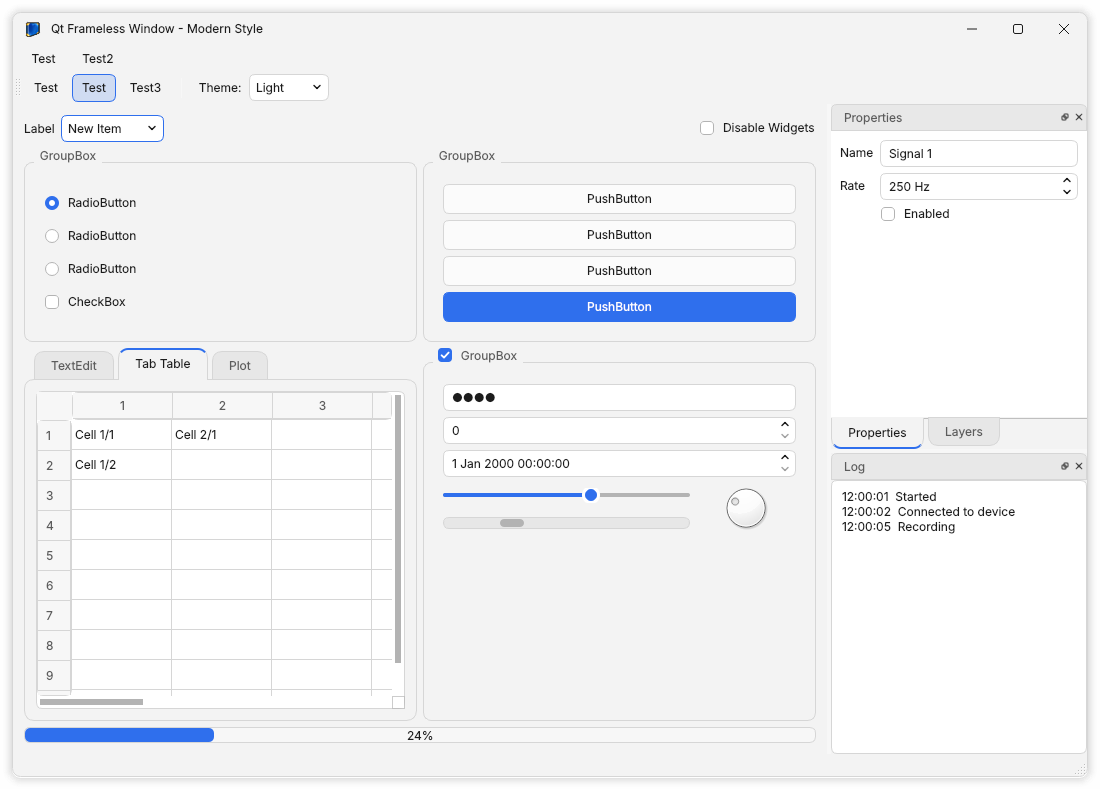
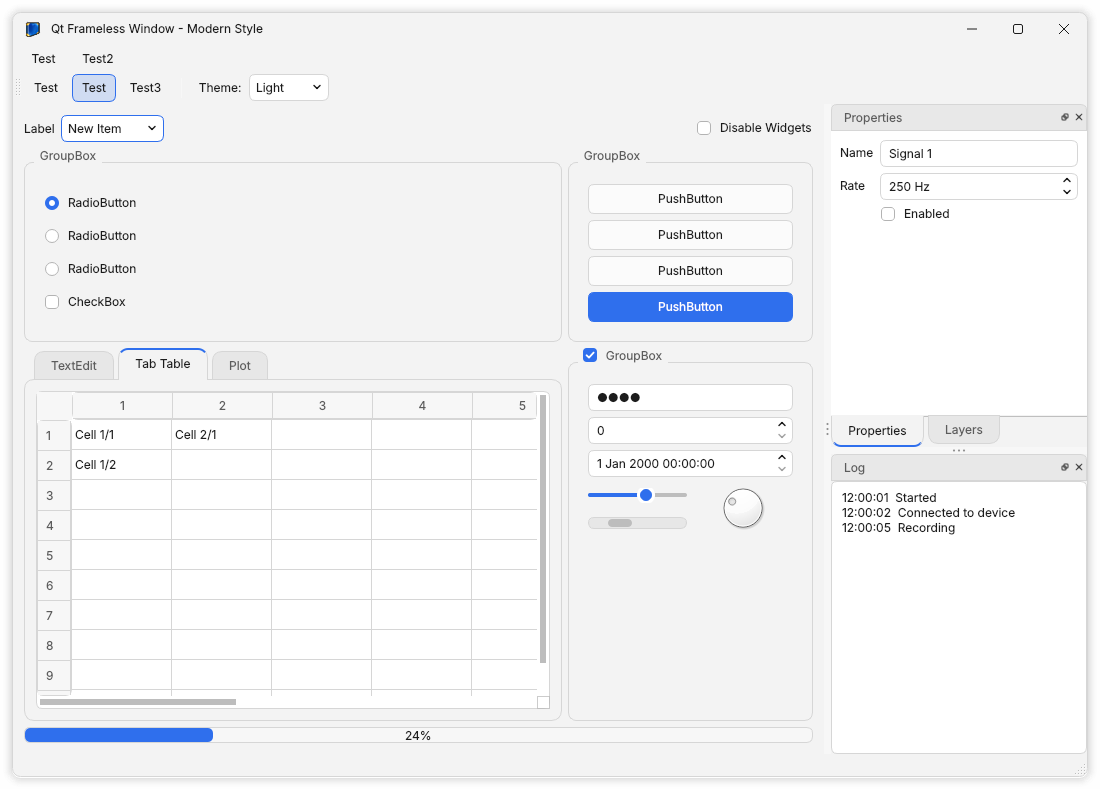
Theme::Invalid, theme names API; visible splitters, sliders, scroll bars
- Theme::Invalid (last, so existing values don't change): returned by
  themeFromName() for an unknown name; setTheme() ignores it, the
  constructor treats it as System.
- getThemeNames() ("System", "Light", "Dark", from the Q_ENUM, without
  Invalid), static themeFromName() (case-insensitive) and themeName().
- Splitter handles and dock separators: 7 px with grip dots, accent
  colour on hover/drag (background stays palette(alternate-base)).
- Slider grooves and scroll bar handles use a stronger colour (@groove:
  Slate $gray-600 in dark), visible on the window and on dock panels.
- Demo: tree + text box in a splitter on the first tab; theme combo and
  --theme use the new name functions (unknown --theme is an error).

Claude-Session: https://claude.ai/code/session_01Kn14e4JxntSWfujh7GdBDb

diff --git a/modernstyle/modernstyle.cpp b/modernstyle/modernstyle.cpp
@@ -11,6 +11,7 @@
 #include <QAbstractItemView>
 #include <QComboBox>
 #include <QMenu>
+#include <QMetaEnum>
 #include <QStyleFactory>
 #include <QStyleHints>
 #include <QTemporaryDir>
@@ -39,6 +40,9 @@ QHash<QString, QColor> themeColors(bool dark, const QColor &accent)
         c["controlPressed"] = QColor("#2b2f32");  // shade-color($gray-800, 26%)
         c["border"] = QColor("#101113");          // rgba($black, .6) over $body-bg: all of Slate's borders
         c["borderStrong"] = QColor("#52575c");    // $gray-700
+        c["groove"] = QColor("#7a8288");          // slider track, scroll bar handle: $gray-600
+        c["grooveHover"] = QColor("#aaaaaa");     // scroll bar handle under the mouse: $gray-500
+        c["grip"] = QColor("#aaaaaa");            // the dots on splitter handles
         c["text"] = QColor("#e9ecef");            // $gray-200 (headings, active items)
         c["textSecondary"] = QColor("#aaaaaa");   // $body-color
         c["textDisabled"] = QColor("#7a8288");    // $gray-600
@@ -57,6 +61,9 @@ QHash<QString, QColor> themeColors(bool dark, const QColor &accent)
         c["controlPressed"] = QColor("#e6e6e6");
         c["border"] = QColor("#d6d6d6");
         c["borderStrong"] = QColor("#b3b3b3");
+        c["groove"] = QColor("#bdbdbd");
+        c["grooveHover"] = QColor("#8f8f8f");
+        c["grip"] = QColor("#8f8f8f");
         c["text"] = QColor("#1c1c1c");
         c["textSecondary"] = QColor("#5c5c5c");
         c["textDisabled"] = QColor("#a3a3a3");
@@ -203,6 +210,19 @@ Painter dockFloat(const QColor &color)
     };
 }
 
+// Splitter grip: three dots in a row (horizontal) or a column, 2 px each
+Painter gripDots(const QColor &color, bool vertical)
+{
+    return [=](QPainter &p) {
+        p.setPen(Qt::NoPen);
+        p.setBrush(color);
+        for (int i = 0; i < 3; ++i) {
+            const qreal along = 2 + i * 5;          // 2, 7, 12 in a 14 px image
+            p.drawEllipse(vertical ? QPointF(1.5, along) : QPointF(along, 1.5), 1.1, 1.1);
+        }
+    };
+}
+
 // A 16 x 16 check box: an empty rounded square, or filled with a check mark
 // or a dash (indeterminate)
 enum class Mark { None, Check, Dash };
@@ -247,7 +267,7 @@ ModernStyle::~ModernStyle() = default;
 
 ModernStyle::ModernStyle(Theme theme, QStyle *baseStyle)
     : QProxyStyle(baseStyle ? baseStyle : QStyleFactory::create(QStringLiteral("Fusion")))
-    , m_theme(theme)
+    , m_theme(theme == Theme::Invalid ? Theme::System : theme)
     , m_accent(QColor("#2f6fed"))
     , m_systemPalette(QGuiApplication::palette())
 {
@@ -268,6 +288,7 @@ bool ModernStyle::isDark() const
     case Theme::Dark:
         return true;
     case Theme::System:
+    case Theme::Invalid:
         break;
     }
 #if QT_VERSION >= QT_VERSION_CHECK(6, 5, 0)
@@ -281,8 +302,39 @@ bool ModernStyle::isDark() const
 
 void ModernStyle::setTheme(Theme theme)
 {
+    if (theme == Theme::Invalid)
+        return;
     m_theme = theme;
     apply();
+}
+
+QStringList ModernStyle::getThemeNames() const
+{
+    // From the enum itself (Q_ENUM), so a theme added later shows up here too
+    const QMetaEnum themes = QMetaEnum::fromType<Theme>();
+    QStringList names;
+    for (int i = 0; i < themes.keyCount(); ++i) {
+        if (Theme(themes.value(i)) != Theme::Invalid)
+            names.append(QString::fromLatin1(themes.key(i)));
+    }
+    return names;
+}
+
+ModernStyle::Theme ModernStyle::themeFromName(const QString &name)
+{
+    const QMetaEnum themes = QMetaEnum::fromType<Theme>();
+    for (int i = 0; i < themes.keyCount(); ++i) {
+        if (name.compare(QLatin1String(themes.key(i)), Qt::CaseInsensitive) == 0)
+            return Theme(themes.value(i));
+    }
+    return Theme::Invalid;
+}
+
+QString ModernStyle::themeName(Theme theme)
+{
+    if (theme == Theme::Invalid)
+        return {};
+    return QString::fromLatin1(QMetaEnum::fromType<Theme>().valueToKey(int(theme)));
 }
 
 void ModernStyle::setAccentColor(const QColor &color)
@@ -470,6 +522,8 @@ QString ModernStyle::writeImages() const
     save("radio-disabled", indicator, radioButton(c["border"], c["window"], false, {}));
     save("radio-checked-disabled", indicator, radioButton({}, c["border"], true, c["textDisabled"]));
 
+    save("grip-vertical", QSize(3, 14), gripDots(c["grip"], true));     // QSplitter::handle:horizontal
+    save("grip-horizontal", QSize(14, 3), gripDots(c["grip"], false));  // QSplitter::handle:vertical
     save("dock-close", dockButton, dockClose(c["text"]));
     save("dock-float", dockButton, dockFloat(c["text"]));
     return prefix;

diff --git a/demo/mainwindow.cpp b/demo/mainwindow.cpp
@@ -24,6 +24,8 @@
 #include <QListWidget>
 #include <QPlainTextEdit>
 #include <QSpinBox>
+#include <QSplitter>
+#include <QTreeWidget>
 #include <QToolBar>
 
 MainWindow::MainWindow(ModernStyle *style, QWidget *parent)
@@ -38,15 +40,29 @@ MainWindow::MainWindow(ModernStyle *style, QWidget *parent)
     for (int i = 1; i <= 40; ++i)
         ui->comboBox->addItem(tr("Item %1").arg(i));
 
-    // Theme switcher in the toolbar
+    // The first tab: a tree and the text box side by side, with a splitter
+    // between them
+    auto *outline = new QTreeWidget;
+    outline->setHeaderHidden(true);
+    for (const QString &chapter : { tr("Introduction"), tr("Setup"), tr("Usage") }) {
+        auto *item = new QTreeWidgetItem(outline, { chapter });
+        for (int i = 1; i <= 3; ++i)
+            new QTreeWidgetItem(item, { tr("Section %1").arg(i) });
+    }
+    outline->expandToDepth(0);
+    auto *splitter = new QSplitter(Qt::Horizontal);
+    splitter->addWidget(outline);
+    ui->tab->layout()->replaceWidget(ui->textEdit, splitter);
+    splitter->addWidget(ui->textEdit);
+    splitter->setSizes({ 160, 400 });
+
+    // Theme switcher in the toolbar, filled from the style's theme names
     if (style) {
         auto *themes = new QComboBox(this);
-        themes->addItem(tr("System"), QVariant::fromValue(ModernStyle::Theme::System));
-        themes->addItem(tr("Light"), QVariant::fromValue(ModernStyle::Theme::Light));
-        themes->addItem(tr("Dark"), QVariant::fromValue(ModernStyle::Theme::Dark));
-        themes->setCurrentIndex(themes->findData(QVariant::fromValue(style->theme())));
-        connect(themes, &QComboBox::currentIndexChanged, this, [style, themes] {
-            style->setTheme(themes->currentData().value<ModernStyle::Theme>());
+        themes->addItems(style->getThemeNames());
+        themes->setCurrentText(ModernStyle::themeName(style->theme()));
+        connect(themes, &QComboBox::currentTextChanged, this, [style](const QString &name) {
+            style->setTheme(ModernStyle::themeFromName(name));
         });
 
         ui->mainToolBar->addSeparator();

diff --git a/modernstyle/modernstyle.h b/modernstyle/modernstyle.h
@@ -22,6 +22,7 @@
 #include <QPalette>
 #include <QProxyStyle>
 #include <QString>
+#include <QStringList>
 
 #include <memory>
 
@@ -36,6 +37,7 @@ public:
         System, // follow the operating system's light/dark setting
         Light,
         Dark,
+        Invalid, // not a theme: what themeFromName() returns for an unknown name
     };
     Q_ENUM(Theme)
 
@@ -46,8 +48,17 @@ public:
     Theme theme() const { return m_theme; }
     bool isDark() const;
 
-    // Switch the theme of the running application
+    // Switch the theme of the running application. Theme::Invalid is ignored.
     void setTheme(Theme theme);
+
+    // The themes by name, for a settings dialog or a command line option:
+    // "System", "Light", "Dark" (in the enum's order, without Invalid)
+    QStringList getThemeNames() const;
+
+    // Name <-> theme. themeFromName() ignores case and returns Theme::Invalid
+    // for a name that isn't a theme; themeName(Theme::Invalid) is empty.
+    static Theme themeFromName(const QString &name);
+    static QString themeName(Theme theme);
 
     // The colour of selections, default buttons, focus frames, sliders and
     // progress bars. Default: a blue that suits both themes.

diff --git a/demo/main.cpp b/demo/main.cpp
@@ -29,11 +29,11 @@ int main(int argc, char *argv[])
     parser.addOption({ "tab", "Show this page of the tab widget (0, 1, ...).", "index" });
     parser.process(app);
 
-    ModernStyle::Theme theme = ModernStyle::Theme::System;
-    if (parser.value("theme") == QLatin1String("light"))
-        theme = ModernStyle::Theme::Light;
-    else if (parser.value("theme") == QLatin1String("dark"))
-        theme = ModernStyle::Theme::Dark;
+    const ModernStyle::Theme theme = ModernStyle::themeFromName(parser.value("theme"));
+    if (theme == ModernStyle::Theme::Invalid) {
+        qWarning("Unknown theme \"%s\"; one of: system, light, dark", qPrintable(parser.value("theme")));
+        return 1;
+    }
 
     // The style: the application takes ownership
     auto *style = new ModernStyle(theme);

diff --git a/README.md b/README.md
@@ -23,6 +23,8 @@ Version 2 of this fork brings the original [Qt-Frameless-Window-DarkStyle](https
 - Light and dark themes, flat and rounded, with one accent colour for selections, default buttons, focus, sliders, progress bars, check boxes and radio buttons.
 - `Theme::System` (default) follows the OS light/dark setting and **switches live when it changes** (Qt 6.5+; older Qt picks at start-up).
 - Switch at run time with `setTheme()`, change the accent with `setAccentColor()`.
+- Themes by name, e.g. for a settings dialog or a command-line option: `getThemeNames()` gives `"System", "Light", "Dark"`, `ModernStyle::themeFromName("dark")` the theme (any case; `Theme::Invalid` for an unknown name), `ModernStyle::themeName(theme)` the name back.
+- Splitter handles and the gaps between dock widgets have grip dots and turn the accent colour under the mouse; slider tracks and scroll bar handles are drawn in a colour that stands out on both the window and panels.
 - Based on Qt's Fusion style, plus one readable style sheet (`modernstyle/modernstyle.qss`) with named colours (`@accent`, `@border`, ...) you can edit.
 - Check boxes, radio buttons and arrows are drawn in the theme's colours at 1× and 2×: no image files, no Qt SVG module needed.
 - **Dock widgets are panels like Slate's cards**: a lighter body (`$card-bg`, `#32383e`) and a header-coloured title bar (`$card-cap-bg`, `#515960`) with rounded top corners and clear close / float buttons. Splitter handles, the gaps between dock widgets and the menu and toolbar separators use `palette(alternate-base)`.
@@ -91,7 +93,9 @@ int main(int argc, char *argv[])
 At run time:
 
 ```cpp
-style->setTheme(ModernStyle::Theme::Light);      // System, Light or Dark
+style->setTheme(ModernStyle::Theme::Light);      // System, Light or Dark (Invalid is ignored)
+themeBox->addItems(style->getThemeNames());      // "System", "Light", "Dark"
+style->setTheme(ModernStyle::themeFromName(settings.value("theme").toString()));
 style->setAccentColor(QColor("#7c3aed"));        // any colour
 connect(style, &ModernStyle::themeChanged, this, [](bool dark) { /* e.g. swap your own icons */ });
 
